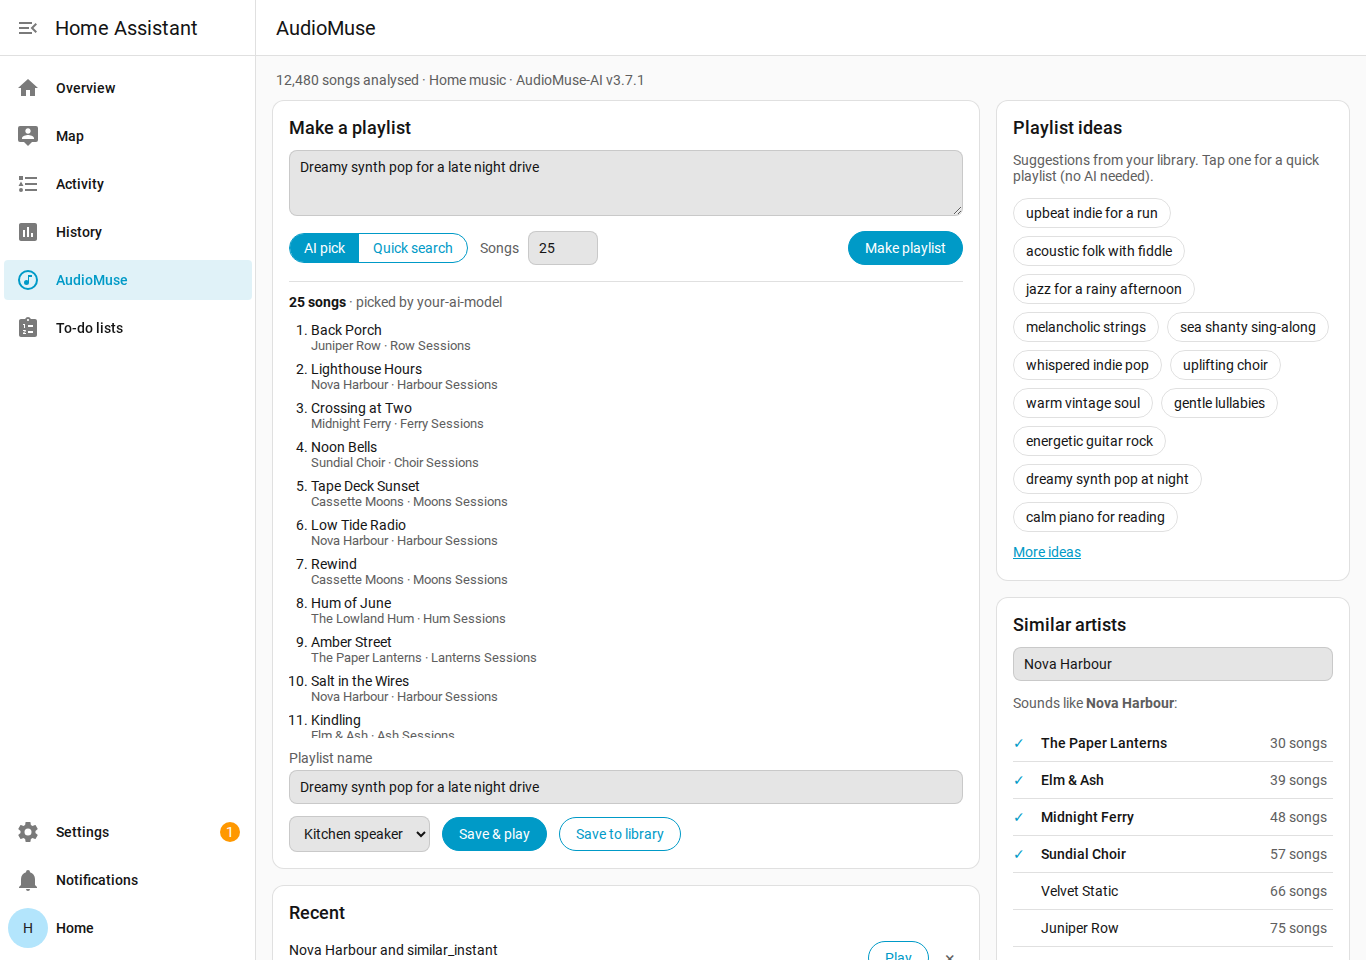
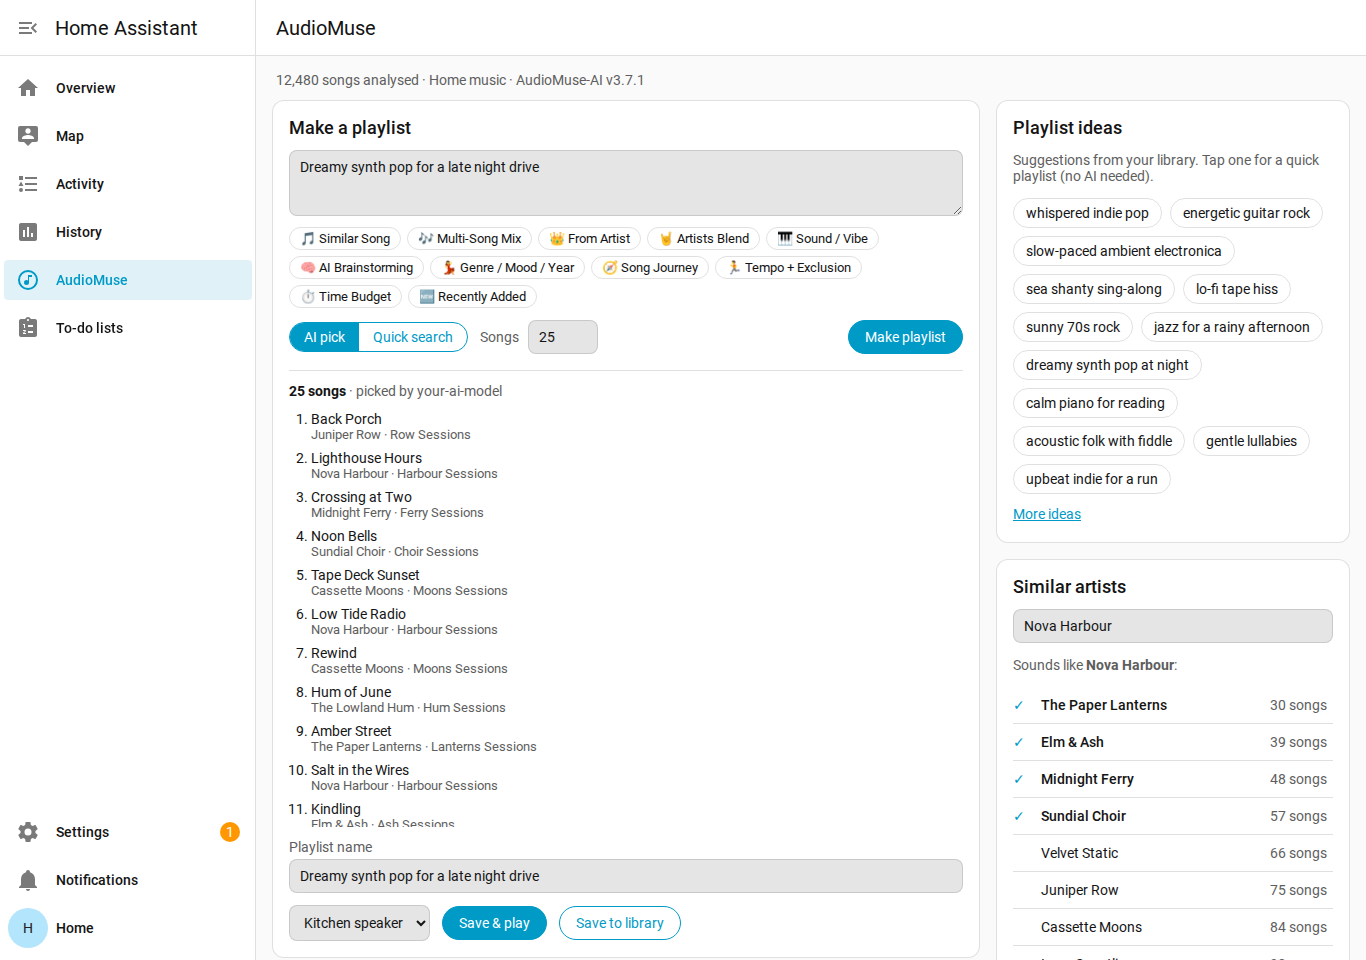
README: new screenshots with the suggestions
Refresh the desktop and dark-phone screenshots so they show the
suggestion chips, and add a close-up of a suggestion filling the request
box. All taken against an invented demo library.

Refs #3

diff --git a/README.md b/README.md
@@ -27,6 +27,10 @@ A Home Assistant integration for [AudioMuse-AI](https://github.com/NeptuneHub/Au
 |---|---|
 | ![Similar artists](https://raw.githubusercontent.com/colfin22/ha-audiomuse/main/docs/images/similar-artists.png) | ![Phone, dark theme](https://raw.githubusercontent.com/colfin22/ha-audiomuse/main/docs/images/page-phone-dark.png) |
 
+**Suggestions:** tap one to fill the request box, then make it your own.
+
+![Suggestions pre-fill the request box](https://raw.githubusercontent.com/colfin22/ha-audiomuse/main/docs/images/suggestions.png)
+
 ## Requirements
 
 - **AudioMuse-AI 3.7.1 or newer**, reachable from Home Assistant, with your library analysed. Results only cover analysed songs.
